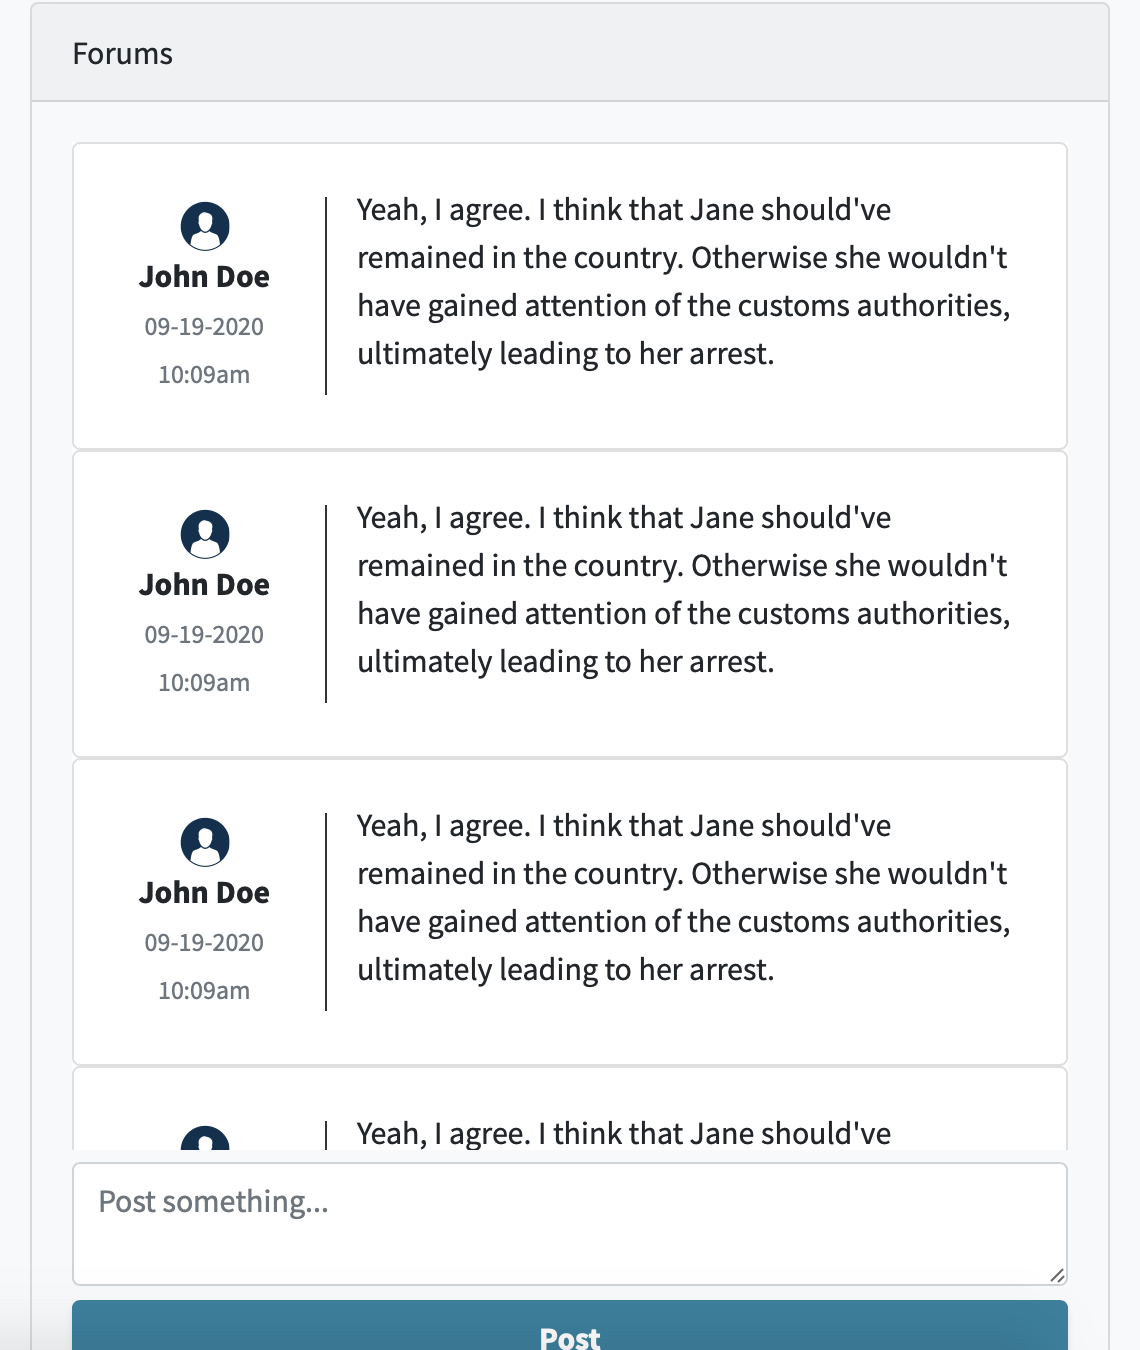
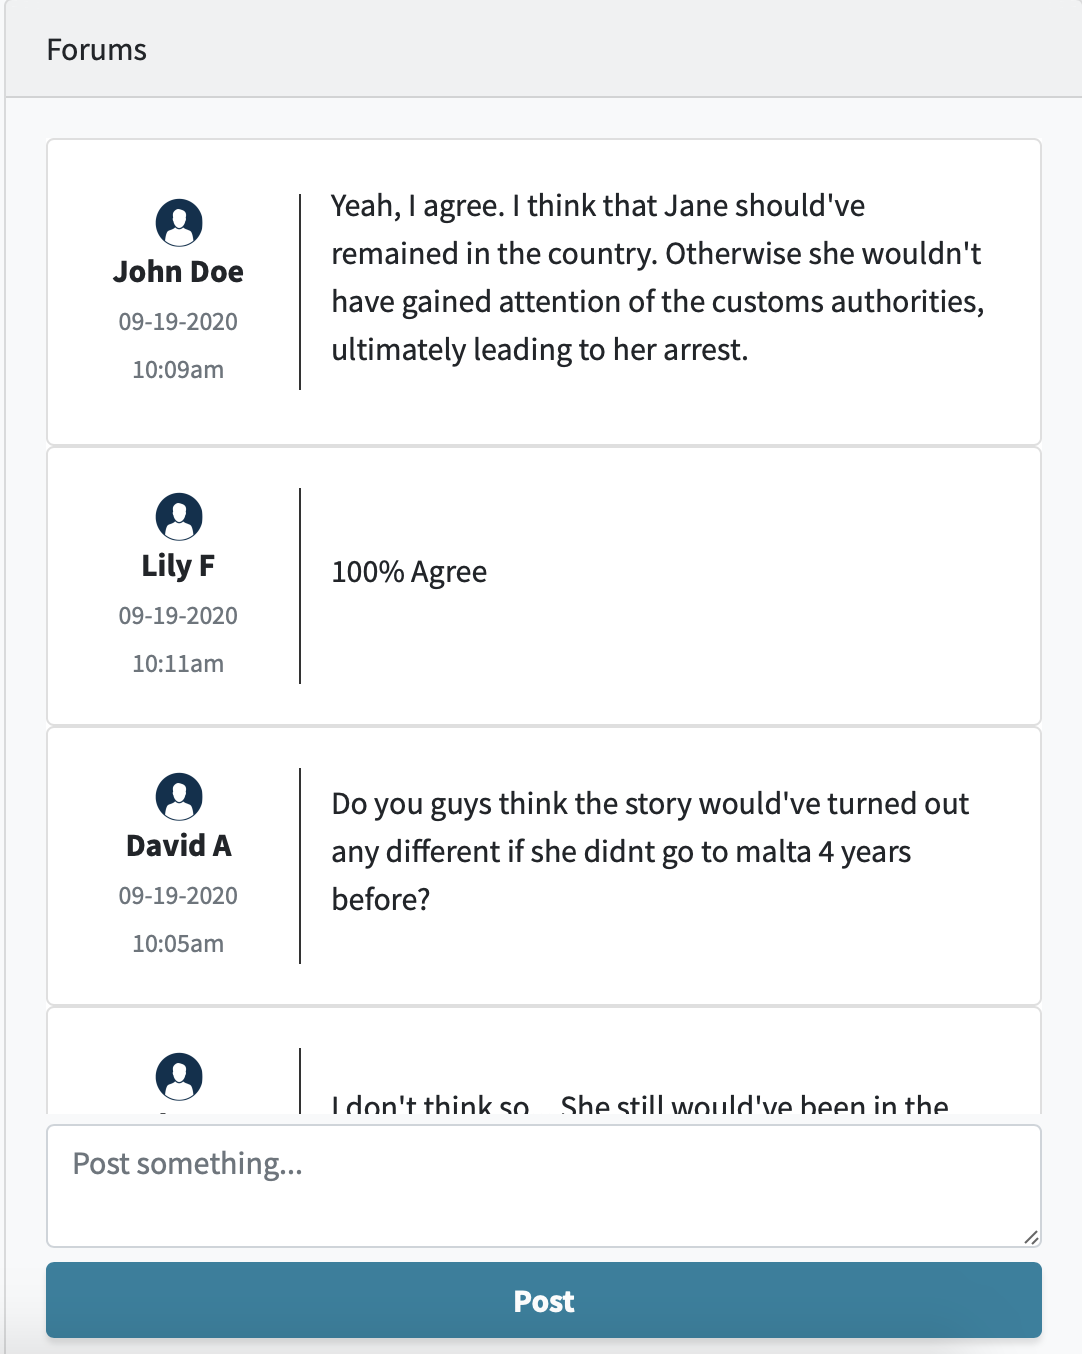
updated readme img and forums static content

diff --git a/templates/bookclub_forums.html b/templates/bookclub_forums.html
@@ -49,10 +49,57 @@
                 <p>Yeah, I agree. I think that Jane should've remained in the country. Otherwise she wouldn't have gained attention of the customs authorities, ultimately leading to her arrest.</p>
               </div>
         </div>
-        
-      
     </div>
   </div>
+
+  <div class="card">
+    <div class="card-body">
+        <div class="row">
+            <div class="col-3 my-auto mx-auto text-center" style="border-right: 1px solid #333;">
+                <img src="../static/img/user.jpg" class="img-fluid rounded" style="height:5vh"></br>
+                <b>Lily F</b></br>
+                <small class="text-muted">09-19-2020</br>10:11am</small>
+                </small>
+              </div>
+              <div class="col-9 my-auto mx-auto">
+                <p>100% Agree</p>
+              </div>
+        </div>
+    </div>
+  </div>
+
+  <div class="card">
+    <div class="card-body">
+        <div class="row">
+            <div class="col-3 my-auto mx-auto text-center" style="border-right: 1px solid #333;">
+                <img src="../static/img/user.jpg" class="img-fluid rounded" style="height:5vh"></br>
+                <b>David A</b></br>
+                <small class="text-muted">09-19-2020</br>10:05am</small>
+                </small>
+              </div>
+              <div class="col-9 my-auto mx-auto">
+                <p>Do you guys think the story would've turned out any different if she didnt go to malta 4 years before?</p>
+              </div>
+        </div>
+    </div>
+  </div>
+
+  <div class="card">
+    <div class="card-body">
+        <div class="row">
+            <div class="col-3 my-auto mx-auto text-center" style="border-right: 1px solid #333;">
+                <img src="../static/img/user.jpg" class="img-fluid rounded" style="height:5vh"></br>
+                <b>Elyse</b></br>
+                <small class="text-muted">09-19-2020</br>10:34am</small>
+                </small>
+              </div>
+              <div class="col-9 my-auto mx-auto">
+                <p>I don't think so... She still would've been in the wrong place at the wrong time.</p>
+              </div>
+        </div>
+    </div>
+  </div>
+
 
   
 
